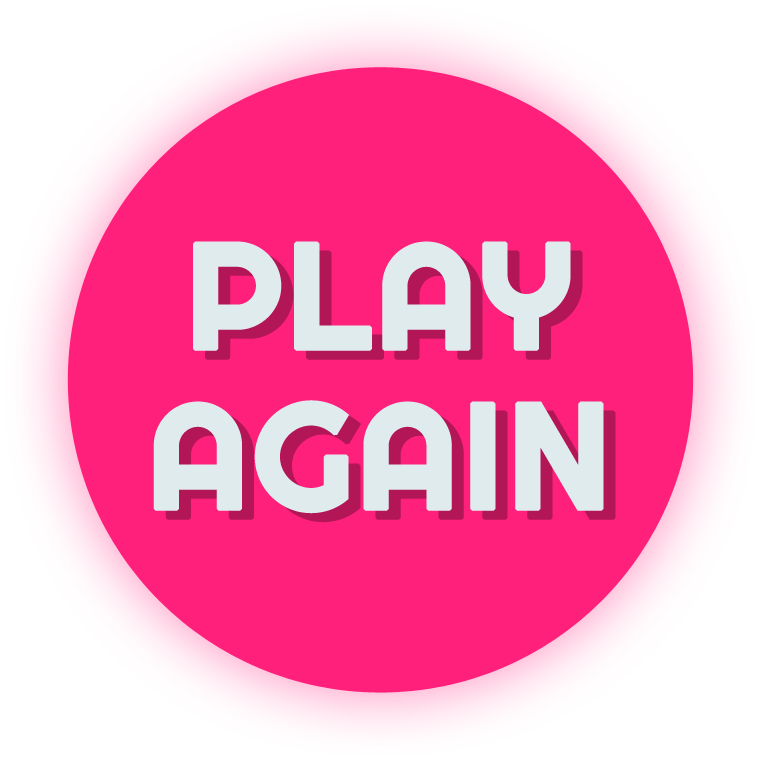
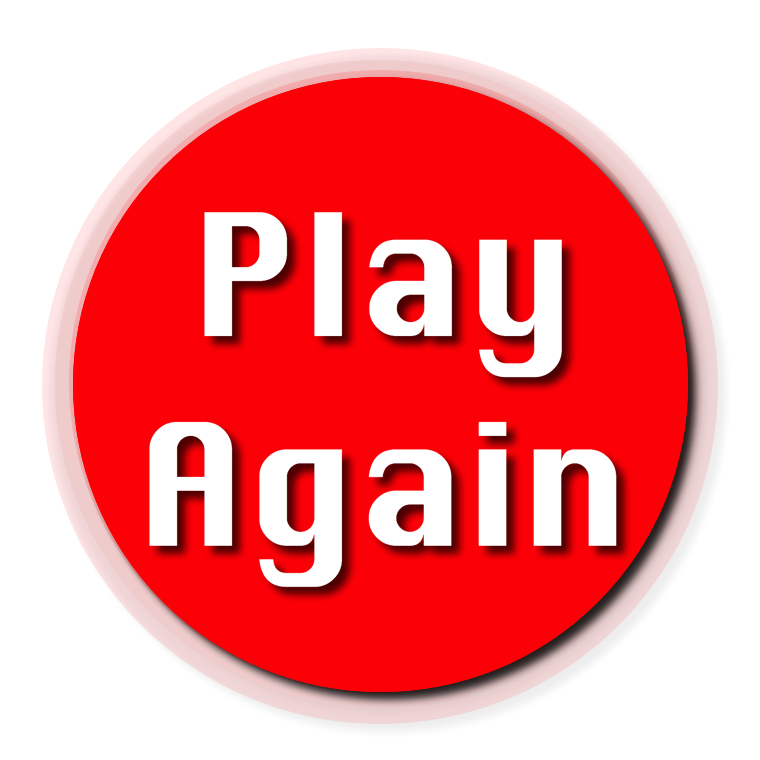
Updated graphics

diff --git a/SpaceUp/Lib/CometEmitter.swift b/SpaceUp/Lib/CometEmitter.swift
@@ -38,43 +38,18 @@ let currentScore: Int
     self.currentScore = currentScore
     var duration = NSTimeInterval(toPosition.distanceTo(fromPosition) / speed)
     
-    if(currentScore <= 100){
-        switch type {
-        case .Slow:
-            duration *= 2.0
+    switch type {
+    case .Slow:
+        duration *= 1.5
+            
+    case .Fast:
+        duration *= 0.5
+            
+    default:
+        break
+    }
+            
     
-        case .Fast:
-            duration *= 1.0
-
-        default:
-            break
-        }
-    }
-    if(currentScore > 100 && currentScore <= 200){
-        switch type {
-        case .Slow:
-            duration *= 1.5
-            
-        case .Fast:
-            duration *= 0.5
-            
-        default:
-            break
-        }
-    }
-    if(currentScore > 200){
-        switch type {
-        case .Slow:
-            duration *= 1.0
-            
-        case .Fast:
-            duration *= 0.5
-            
-        default:
-            break
-        }
-            
-    }
     
     self.duration = duration
   }
@@ -102,11 +77,12 @@ let currentScore: Int
       let cometAction = SKAction.sequence([
         SKAction.runBlock { [weak self] in
           if let emitter = self {
-            let comet = emitter.addComet()
+                let comet = emitter.addComet()
             
-            emitter.revealComet(comet, fromPosition: startPosition, toPosition: emitter.toPosition)
+                emitter.revealComet(comet, fromPosition: startPosition, toPosition: emitter.toPosition)
 
-            startPosition = emitter.fromPosition
+                startPosition = emitter.fromPosition
+            
           }
         },
         SKAction.waitForDuration(delayDuration)

diff --git a/SpaceUp/Controllers/GameViewController.swift b/SpaceUp/Controllers/GameViewController.swift
@@ -466,7 +466,7 @@ class GameViewController: UIViewController, GKGameCenterControllerDelegate, ADIn
   }
   
   func gameSceneDidStart(gameScene: GameScene) {
-    prepareInterstitialAd()
+    //prepareInterstitialAd() //JUST DELETED
   }
   
   func gameSceneDidRequestRetry(gameScene: GameScene) {
@@ -586,7 +586,8 @@ class GameViewController: UIViewController, GKGameCenterControllerDelegate, ADIn
     presentStoreActionSheet()
   }
     
-    override func viewWillLayoutSubviews() {
+  override func viewWillLayoutSubviews() {
+
         super.viewWillLayoutSubviews();
         
         
@@ -594,3 +595,4 @@ class GameViewController: UIViewController, GKGameCenterControllerDelegate, ADIn
         appDelegate.viewController = self;
     }
 }
+

diff --git a/SpaceUp/Scenes/StartScene.swift b/SpaceUp/Scenes/StartScene.swift
@@ -10,7 +10,7 @@ import SpriteKit
 
 class StartScene: SKScene, ButtonDelegate {
   // MARK: - Immutable var
-  let background = EndlessBackgroundNode(imageNames: [TextureFileName.Background])
+  let background = EndlessBackgroundNode(imageNames: [TextureFileName.StartBackground])
   let galaxyStars = EndlessBackgroundNode(imageNames: [TextureFileName.BackgroundStars])
   let logo = SKSpriteNode(imageNamed: TextureFileName.StartLogo)
   let startButton = SpriteButtonNode(imageNamed: TextureFileName.ButtonPlay)

diff --git a/SpaceUp/Nodes/BackgroundNode.swift b/SpaceUp/Nodes/BackgroundNode.swift
@@ -1,11 +1,3 @@
-//
-//  BackgroundNode.swift
-//  SpaceUp
-//
-//  Created by David Chin on 2/06/2015.
-//  Copyright (c) 2015 David Chin. All rights reserved.
-//
-
 import SpriteKit
 
 class BackgroundNode: SKSpriteNode {
